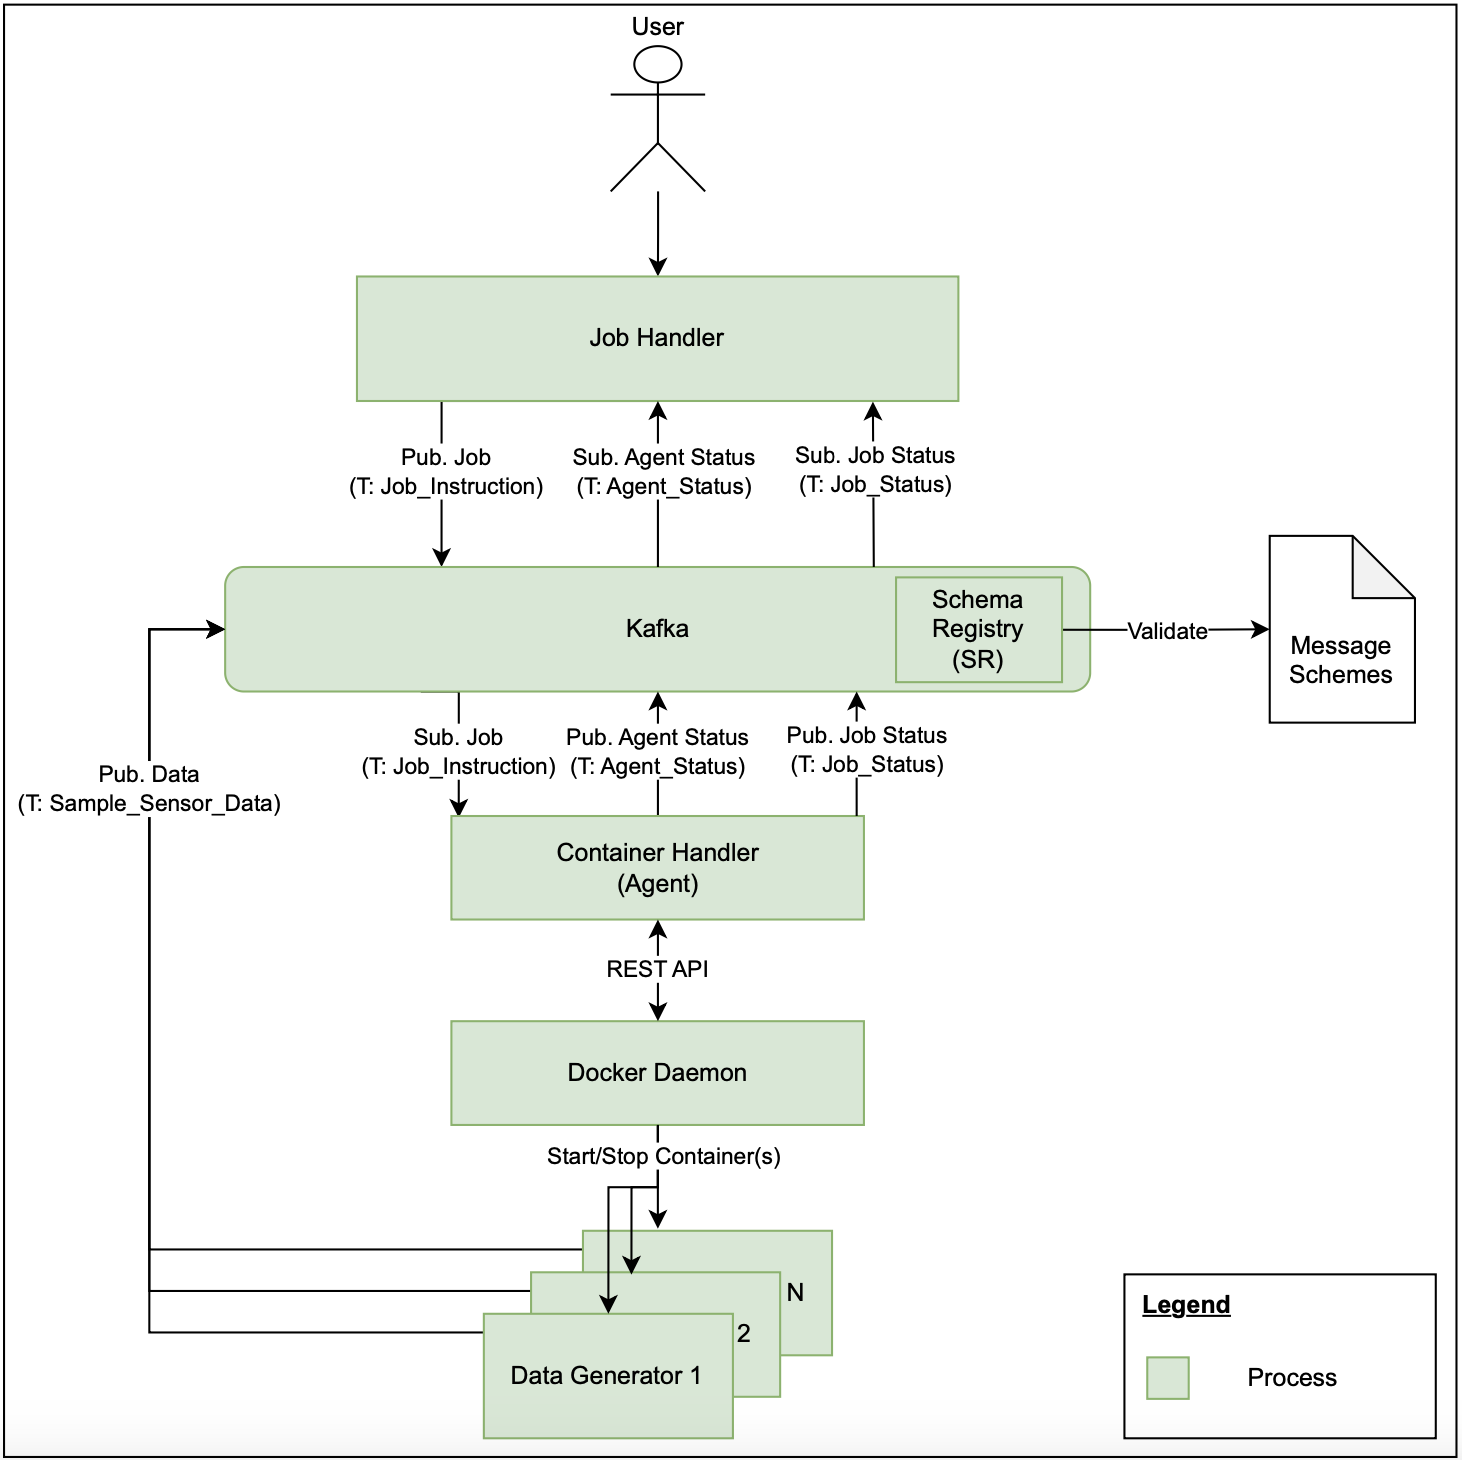
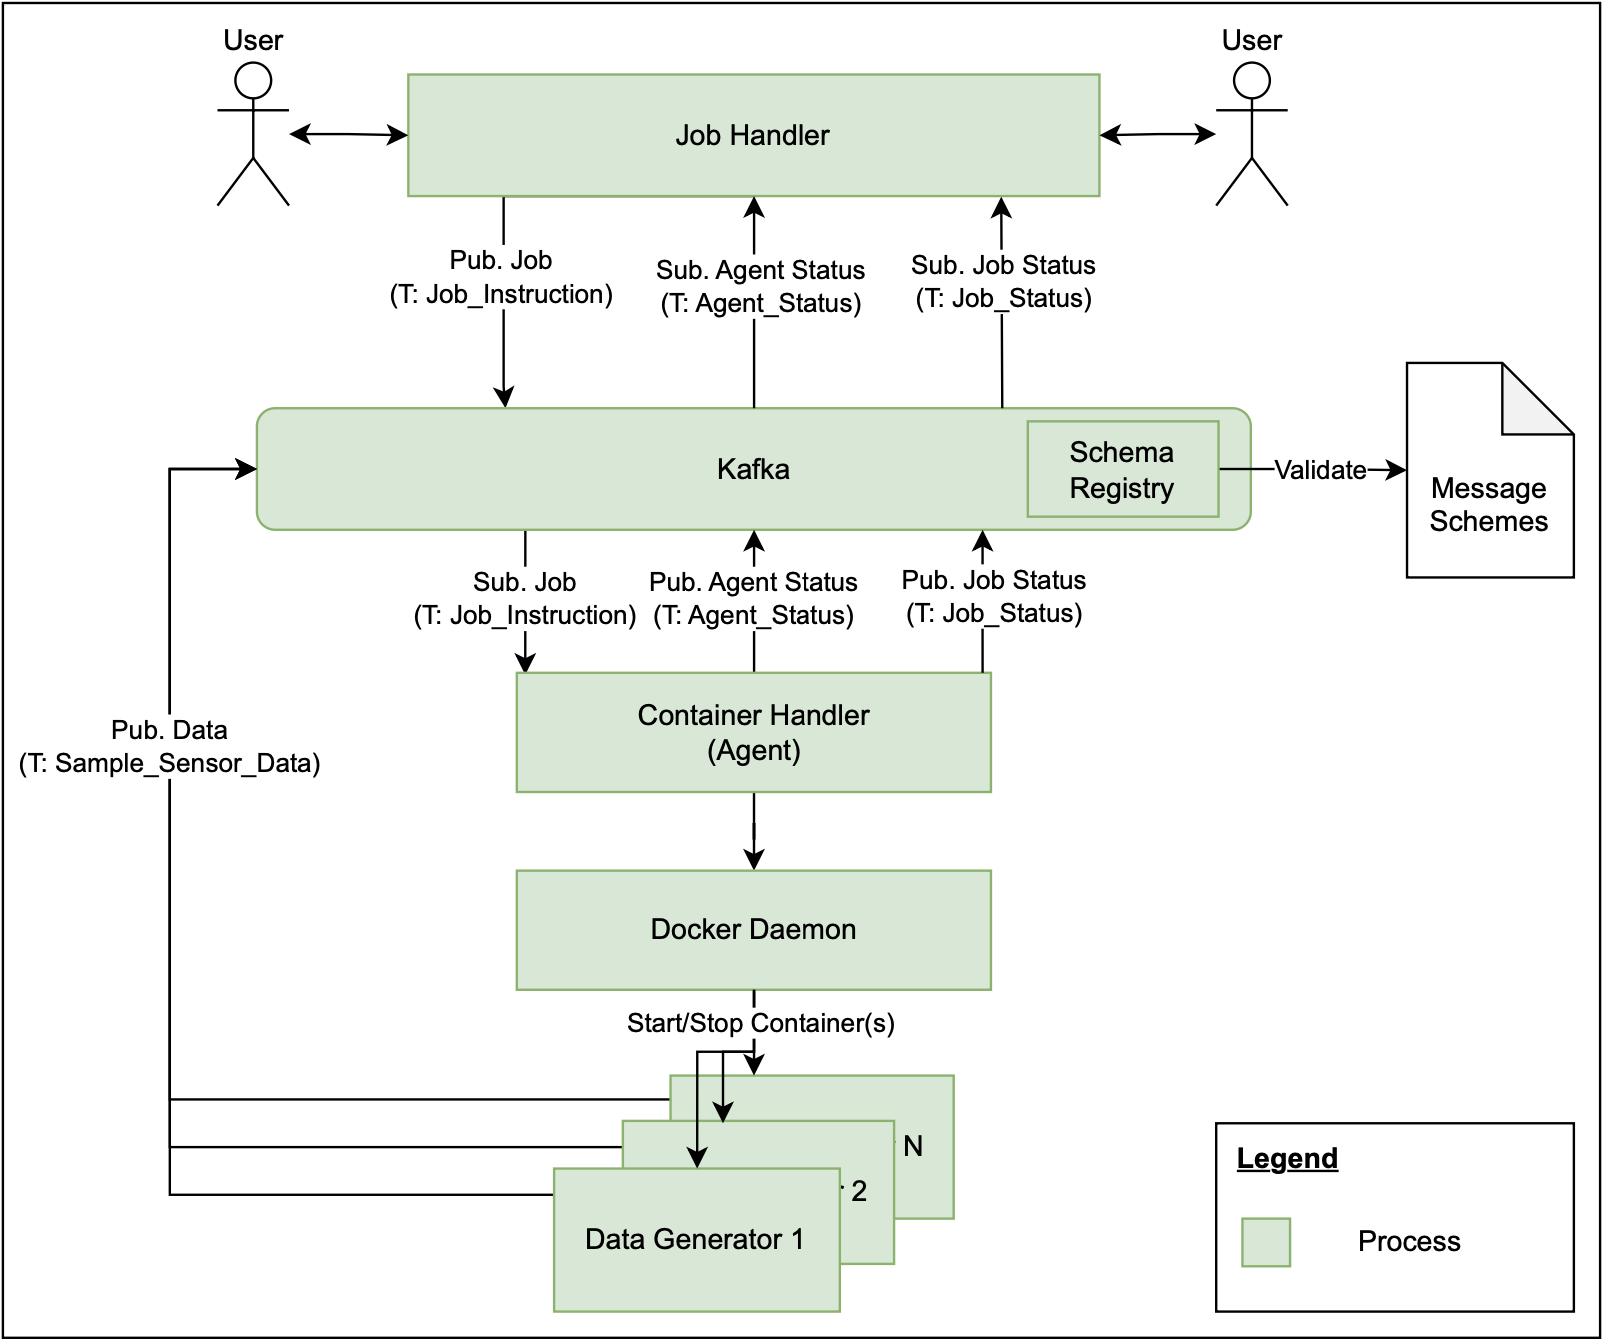
adjust doc images + container.stop()

diff --git a/orchestrator/container_handler/container_handler.py b/orchestrator/container_handler/container_handler.py
@@ -275,7 +275,7 @@ def delete_containers(
                      index + 1, number_of_containers, container_image_name)
         try:
             container = docker_client.containers.get(container_id)
-            container.kill()
+            container.stop()
             container.remove()
             logger.info('Container %s/%s with Image %s has been successfully stopped and removed, Container ID: %s',
                         index + 1, number_of_containers, container_image_name, container_id)
